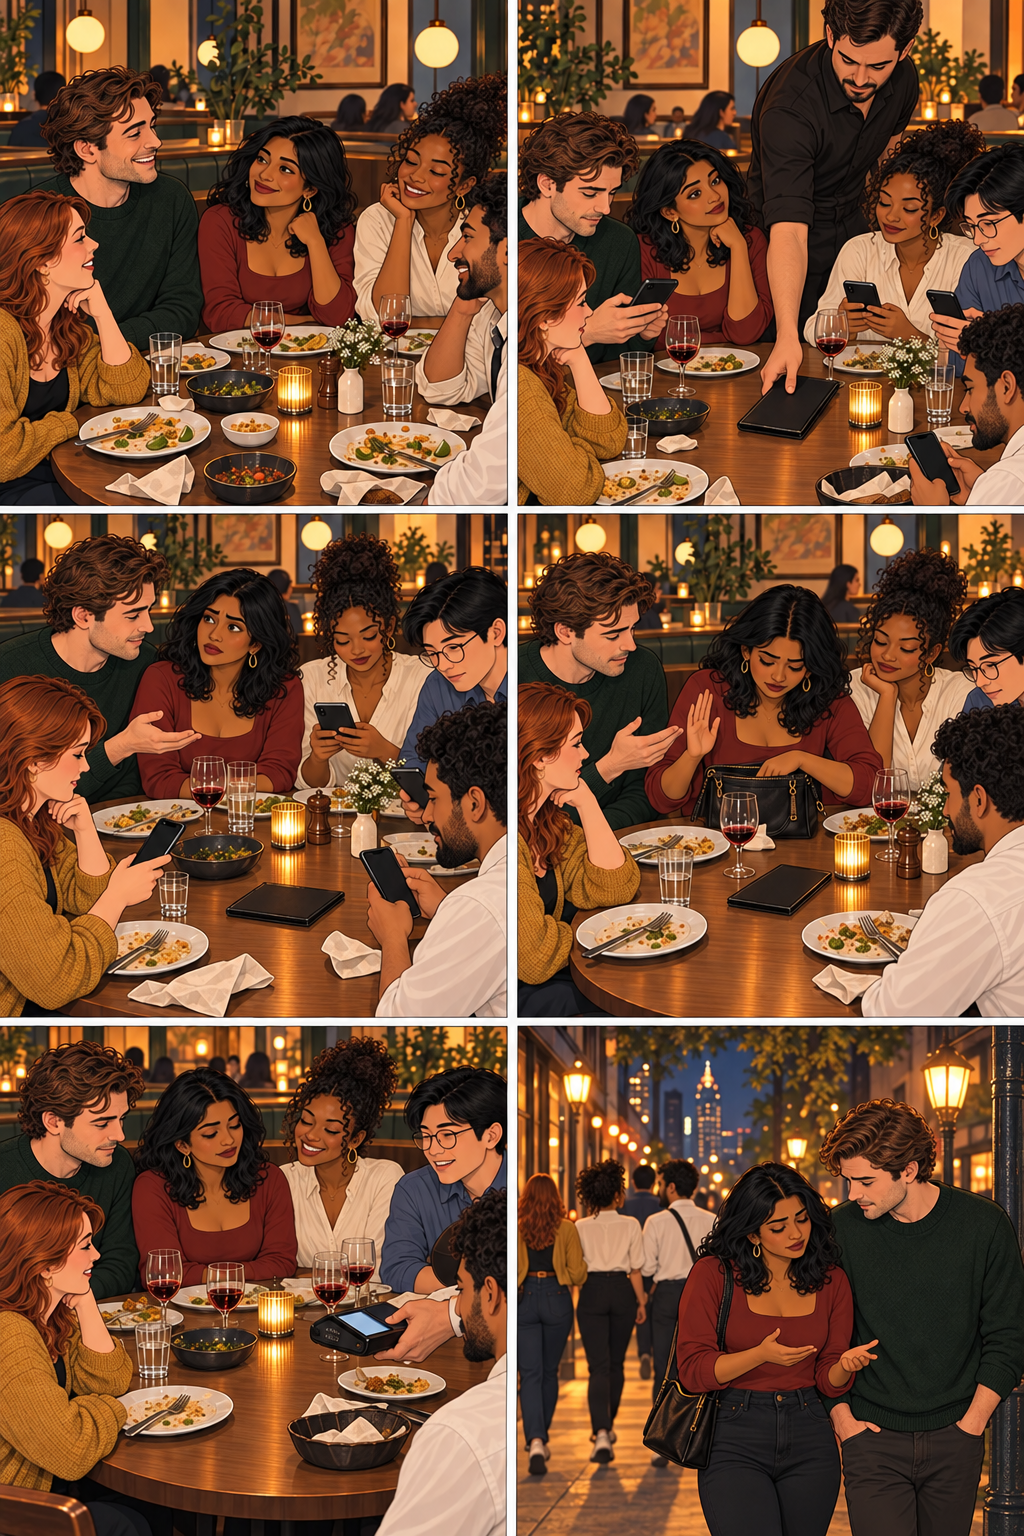
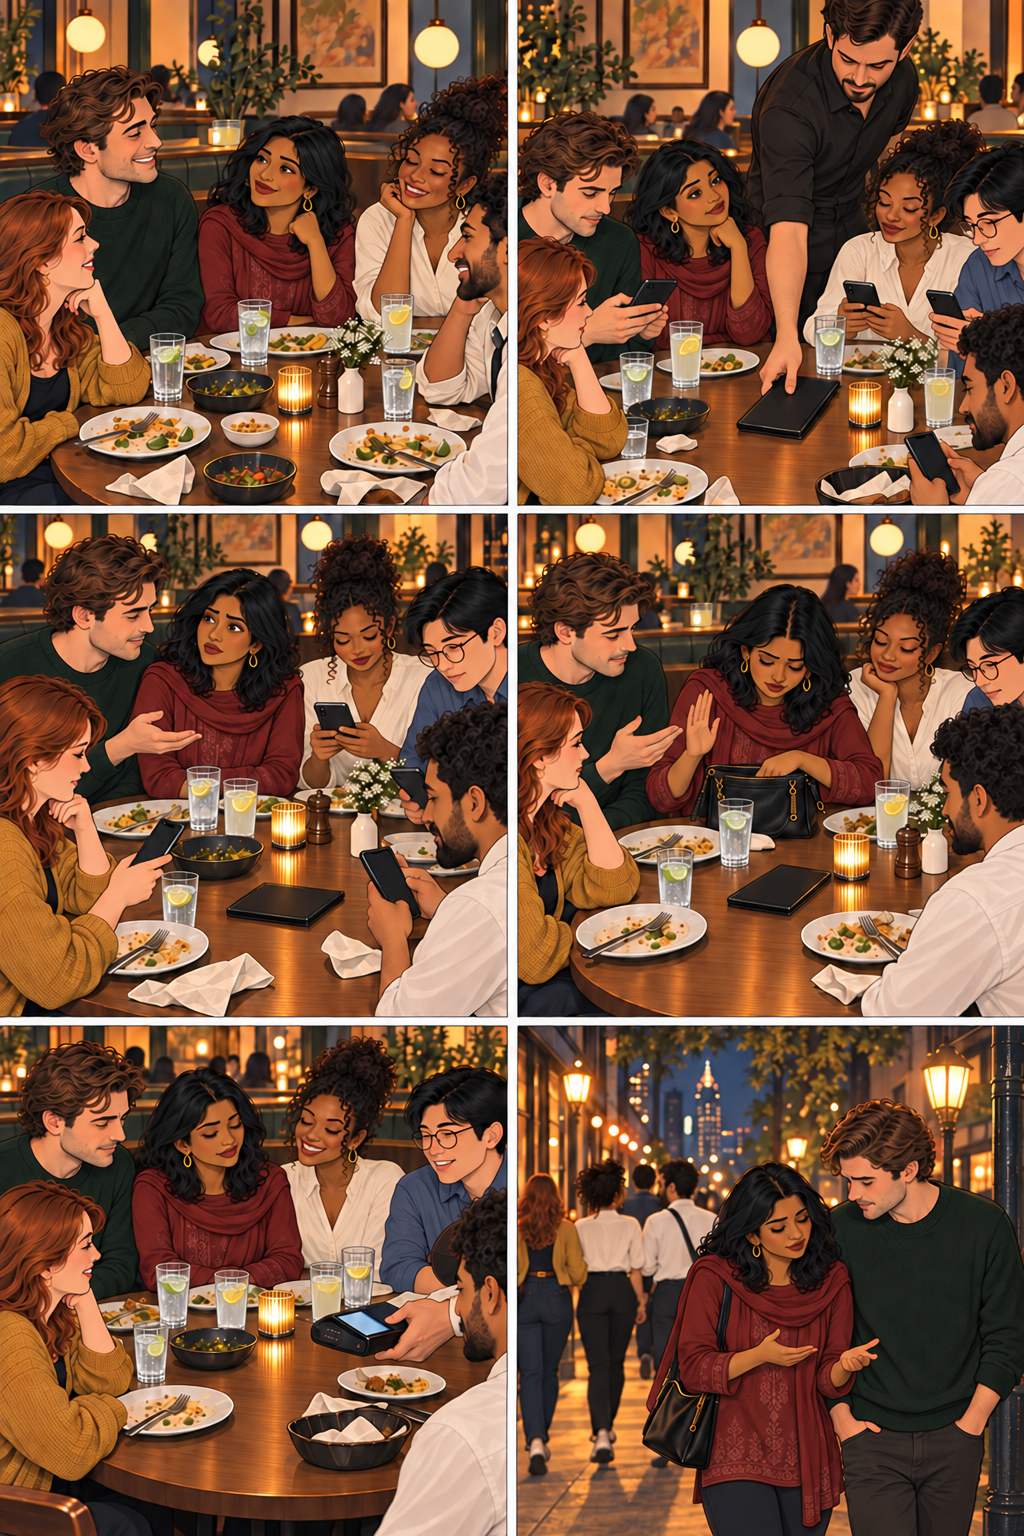
Fix dinner and payment scene artwork

diff --git a/ethnographic-interviews/scenes.js b/ethnographic-interviews/scenes.js
@@ -69,7 +69,7 @@ const SCENES = {
   cast: [
     { slug: 'tania', name: 'Tania', age: 26, gender: 'female',
       who: 'an accountant from Rajshahi, three weeks into her first job in Chicago',
-      look: 'Bangladeshi woman, 26, shoulder-length dark wavy hair, small gold hoop earrings, forest-green sweater (as in the existing strip)',
+      look: 'Bangladeshi woman, 26, shoulder-length dark wavy hair, small gold hoop earrings, deep plum-purple crew-neck sweater, cream trousers',
       voice: { prebuilt: 'Autonoe', note: 'Bright' },
       accent: 'light Bangladeshi accent: soft tapped r, dental t and d, even syllable timing, a gentle rise at the end of statements',
       profile: 'Young woman in her mid-twenties, warm clear mid-range voice, careful and slightly formal English with a soft Bangladeshi accent. Polite, rises a little at the ends of questions, stresses the key word gently rather than loudly.',
@@ -84,10 +84,10 @@ const SCENES = {
   panels: [
     { beat: 1, room: 'sofa',   see: 'Evening in a small apartment. Tania sits on her sofa, holding her phone to her ear, listening to a voice message. On the phone screen: an envelope icon and a small clock showing 6:00–8:00. She looks surprised and pleased.' },
     { beat: 2, room: 'home',   see: 'An apartment door opening. Tania on the doormat holding a wrapped box of sweets with both hands. Jeff opens the door, delighted. A wall clock just inside reads 6:00.' },
-    { beat: 2, room: 'home',   see: 'Dinner table at an angle. Six people eating and laughing, plates of food, candles, glasses. Tania relaxed in the middle of it, mid-laugh.' },
-    { beat: 2, room: 'home',   see: 'The wall clock reads 8:05. Jeff stands up at the table, one hand raised as if thanking everyone. Tania, still seated, is caught mid-bite, eyebrows up in surprise.' },
-    { beat: 3, room: 'home',   see: 'At the front door. Guests putting on coats, smiling, waving. Jeff shakes hands warmly with a departing guest. Everyone looks happy.' },
-    { beat: 3, room: 'street', see: 'Night street outside the building. The other guests walk away cheerfully. Tania stands alone under a streetlamp holding the empty sweet box, looking at her wristwatch, puzzled but half-smiling.' }
+    { beat: 2, room: 'home',   see: 'Dinner table at an angle. Six people eating and laughing, plates of food, candles, and clear water with lemon. Tania, in a plum-purple sweater, is relaxed in the middle of it, mid-laugh.' },
+    { beat: 2, room: 'home',   see: 'The wall clock reads 8:05. Jeff stands up at the table, one hand raised as if thanking everyone. Tania, in a plum-purple sweater and still seated, is caught mid-bite, eyebrows up in surprise. The table has clear water with lemon.' },
+    { beat: 3, room: 'home',   see: 'At the apartment doorway into the indoor building hallway. Jeff stays fully inside and waves. Tania crosses the threshold into the hallway, turns back to wave, and follows the other departing guests.' },
+    { beat: 3, room: 'street', see: 'Night street outside the apartment building after everyone has gone downstairs. The other guests walk away cheerfully. Tania, in a plum-purple sweater with empty hands, stands under a streetlamp looking at her wristwatch, puzzled but half-smiling. Jeff is not outside.' }
   ],
   lines: [
     { w: 'N', p: 1, t: 'This is Tania. She is from Rajshahi. Three weeks ago, she started a new job in Chicago.' },
@@ -119,7 +119,7 @@ const SCENES = {
   cast: [
     { slug: 'nusrat', name: 'Nusrat', age: 22, gender: 'female',
       who: 'an exchange student from Dhaka in her first term in Austin',
-      look: 'Bangladeshi woman, 22, long dark wavy hair, maroon top, small gold earrings (as in the existing strip)',
+      look: 'Bangladeshi woman, 22, long dark wavy hair, small gold earrings, high-neck deep-maroon long-sleeved kurta, opaque coordinating orna draped across her shoulders and chest',
       voice: { prebuilt: 'Leda', note: 'Youthful' },
       accent: 'light Bangladeshi accent: soft tapped r, dental t and d, quick even rhythm, warm open vowels',
       profile: 'Young woman, bright mid-range voice with a clear Bangladeshi accent. Quick and warm, laughs easily, lifts her pitch when she is being generous.',
@@ -132,7 +132,7 @@ const SCENES = {
       tts: { gender: 'male', rate: 1.08, pitch: 1.0 } }
   ],
   panels: [
-    { beat: 1, room: 'restaurant', see: 'Six young friends at a round restaurant table. Jake in a green sweater smiles at Nusrat in a maroon top, who is pleased to have been invited.' },
+    { beat: 1, room: 'restaurant', see: 'Six young friends at a round restaurant table with plates of food and clear water. Jake in a green sweater smiles at Nusrat, who wears a high-neck maroon kurta with an opaque orna across her shoulders and chest and is pleased to have been invited.' },
     { beat: 1, room: 'restaurant', see: 'A waiter leaves the bill. Nusrat looks expectantly at Jake; he reaches for his phone, not the bill.' },
     { beat: 2, room: 'restaurant', see: 'The others calculate their shares. Nusrat looks hurt and caught off guard, hands still in her lap. Jake notices her expression.' },
     { beat: 2, room: 'restaurant', see: 'Nusrat searches her purse with a tense, embarrassed expression. Jake gently offers to help; she gives a small restrained head shake.' },

diff --git a/ethnographic-interviews/index.html b/ethnographic-interviews/index.html
@@ -3398,7 +3398,7 @@ body.is-welcome #theme-pill{visibility:hidden}
 <!-- ============ PRINTABLE FIELD SHEET · blank, for real interviews ============ -->
 <div id="printsheet"></div>
 
-<script src="scenes.js?v=20260929-review2"></script>
+<script src="scenes.js?v=20260930-cultural3"></script>
 <script src="scene-timings.js?v=20260929-review2"></script>
 <script src="glossary.js?v=20260927c"></script>
 <script src="timings.js?v=20260930-boss"></script>
@@ -6045,7 +6045,7 @@ const scnShown = {};                         /* last panel shown, per scenario *
    Fetched when the moment opens, so it is usually ready before Play. */
 const scnBlob = {};                          /* id -> url | null (none) | undefined (loading) */
 const scnBlobP = {};
-const SCN_ASSET_VERSION = '20260929-review2';
+const SCN_ASSET_VERSION = '20260930-cultural3';
 const scnAsset = path => new URL(path + '?v=' + SCN_ASSET_VERSION, document.baseURI).href;
 const scnOverview = {};
 const scnErrors = {};
